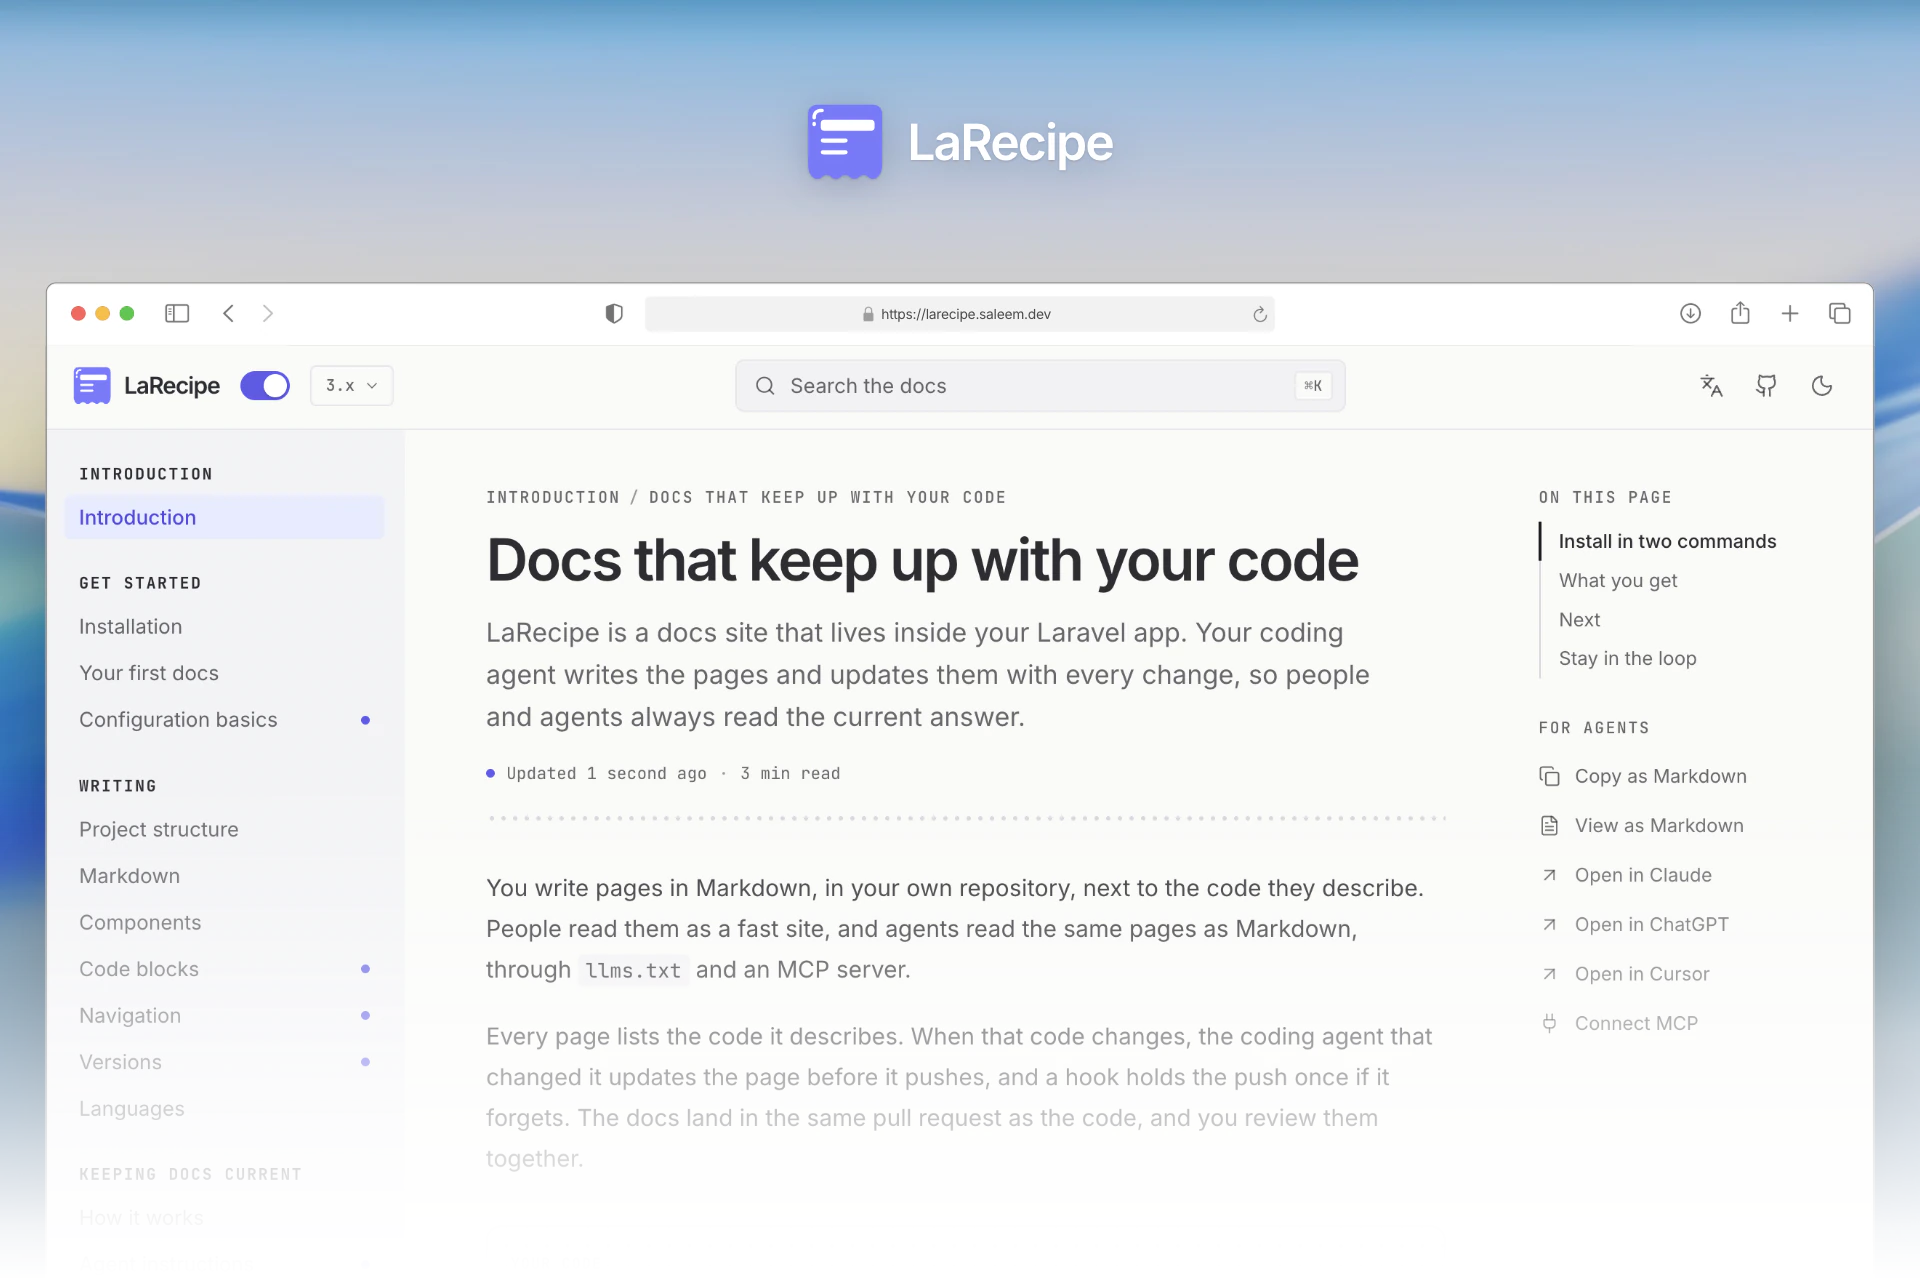
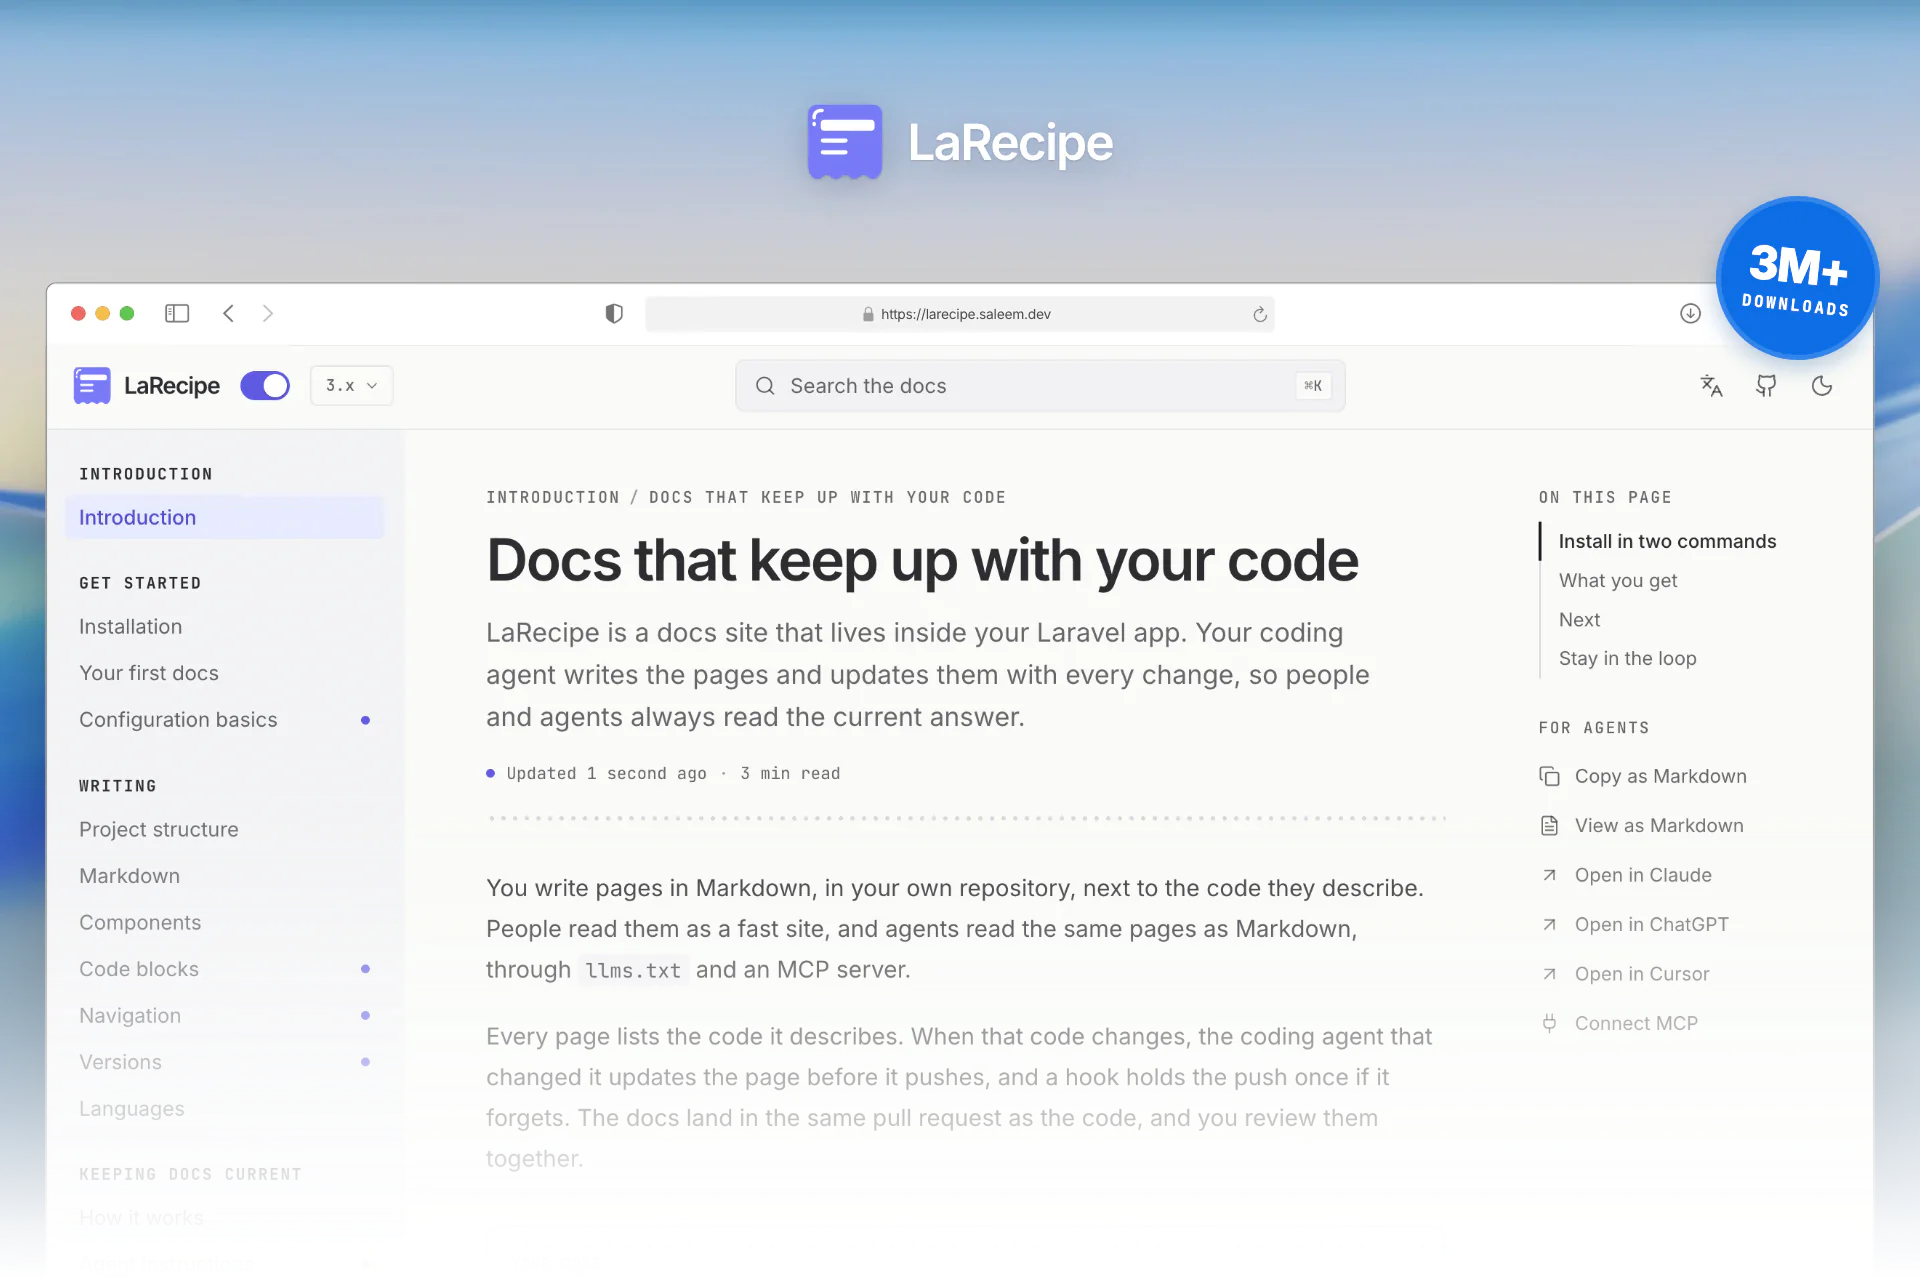
Badge the README screenshot with 3M+ downloads
A blue seal on the browser window's top-right corner, covering only the
browser's own buttons. Packagist counts 3,072,212 downloads of
binarytorch/larecipe. The alt text names the badge. The docs site's
Introduction uses the same image.

Changed region(s): [[0.875, 0.1562, 1.0, 0.3125]]

diff --git a/README.md b/README.md
@@ -1,5 +1,5 @@
 <p align="center">
-<a href="https://larecipe.saleem.dev"><img src=".github/assets/screenshot.webp" alt="The LaRecipe docs site in a browser: the sidebar, the Introduction page, and the panel of actions for agents, such as Copy as Markdown and Connect MCP."></a>
+<a href="https://larecipe.saleem.dev"><img src=".github/assets/screenshot.webp" alt="The LaRecipe docs site in a browser: the sidebar, the Introduction page, and the panel of actions for agents, such as Copy as Markdown and Connect MCP. A badge on the window reads 3M+ downloads."></a>
 </p>
 
 <h1 align="center">Docs that keep up with your code</h1>
